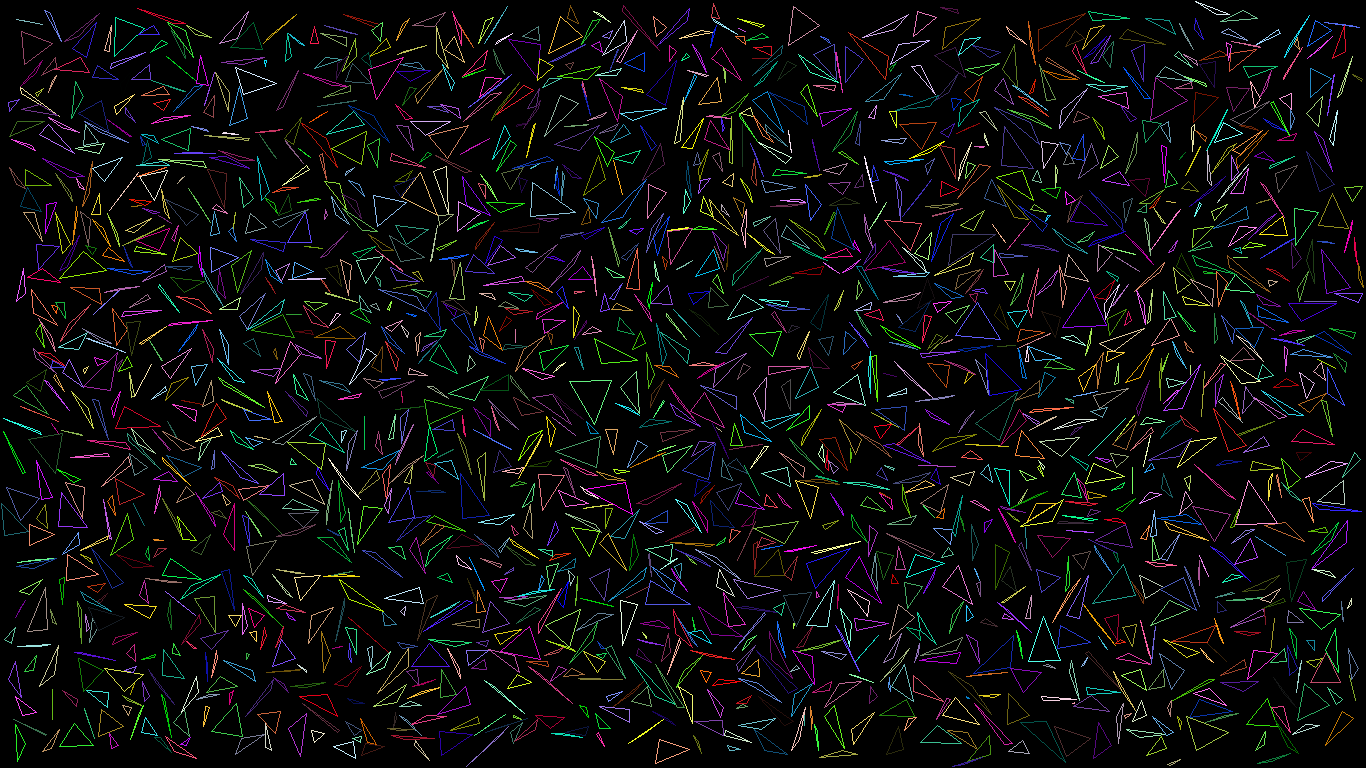
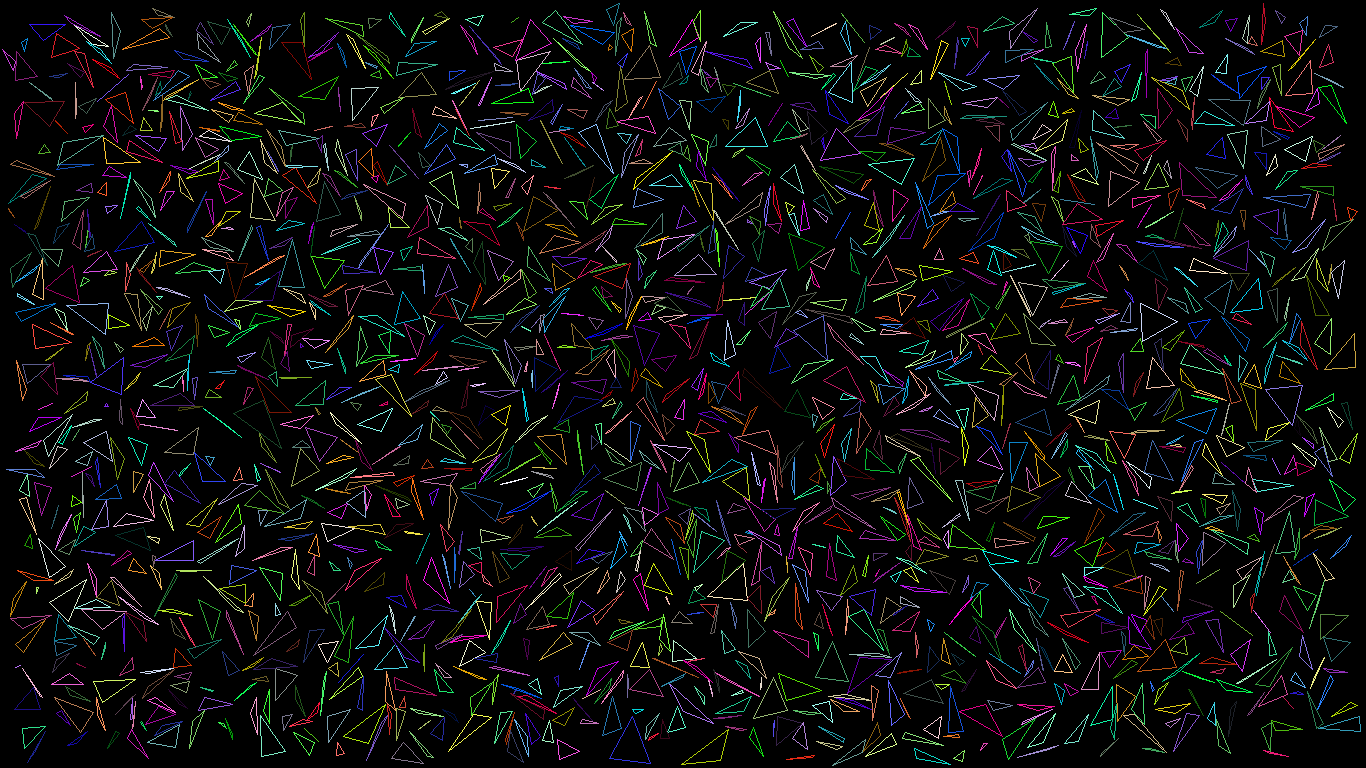
optimized

Changed region(s): [[0.0, 0.0, 1.0, 1.0]]

diff --git a/convex_collide.py b/convex_collide.py
@@ -31,38 +31,42 @@ def collide(pts1,pts2):
         p1 = pts1[i]
         p2 = pts1[i+1]
 
-        theta = 1.57079 - np.arctan2(p2[1]-p1[1],p2[0]-p1[0])
-        c, s = np.cos(theta), np.sin(theta)
-        rot = np.array(((c, -s), (s, c)))
+        #theta = 1.57079 - np.arctan2(p2[1]-p1[1],p2[0]-p1[0])
+        theta = np.arctan2(p2[1]-p1[1],p2[0]-p1[0])
+        s, c = np.cos(theta), np.sin(theta)#c,s
+        rot = np.array([[c,s],[-s,c]])#rot = np.array(((c, -s), (s, c)))
         ###################################
-        rpts1 = np.dot(rot, pts1.transpose()).transpose()
-        rpts2 = np.dot(rot, pts2.transpose()).transpose()
+        rpts1 =np.dot(pts1,rot)# np.dot(rot, pts1.transpose()).transpose()
+        rpts2 =np.dot(pts2,rot)# np.dot(rot, pts2.transpose()).transpose()
         ###################################
-        ma = np.min(rpts1[:,0])
-        Ma = np.max(rpts1[:,0])
-        mb = np.min(rpts2[:,0])
-        Mb = np.max(rpts2[:,0])
-        f = (Mb-ma)*(Ma-mb)
-        if f < 0:
+        #ma = np.min(rpts1[:,0])
+        #Ma = np.max(rpts1[:,0])
+        #mb = np.min(rpts2[:,0])
+        #Mb = np.max(rpts2[:,0])
+        #if (ma-Mb>0) or (mb-Ma>0):
+        if (np.min(rpts1[:,0]) - np.max(rpts2[:,0])>0) or (np.min(rpts2[:,0]) - np.max(rpts1[:,0])>0): 
             return False
 
     for i in range(-1,len(pts2)-1):
         p1 = pts2[i]
         p2 = pts2[i+1]
 
-        theta = 1.57079 - np.arctan2(p2[1]-p1[1],p2[0]-p1[0])
-        c, s = np.cos(theta), np.sin(theta)
-        rot = np.array(((c, -s), (s, c)))
+        #theta = 1.57079 - np.arctan2(p2[1]-p1[1],p2[0]-p1[0])
+        theta = np.arctan2(p2[1]-p1[1],p2[0]-p1[0])
+        s, c = np.cos(theta), np.sin(theta)#c,s
+        rot =np.array([[c,s],[-s,c]])# np.array(((c, -s), (s, c)))
         ###################################
-        rpts1 = np.dot(rot, pts1.transpose()).transpose()
-        rpts2 = np.dot(rot, pts2.transpose()).transpose()
+        rpts1 =np.dot(pts1,rot)# np.dot(rot, pts1.transpose()).transpose()
+        rpts2 =np.dot(pts2,rot)# np.dot(rot, pts2.transpose()).transpose()
         ###################################
-        ma = np.min(rpts1[:,0])
-        Ma = np.max(rpts1[:,0])
-        mb = np.min(rpts2[:,0])
-        Mb = np.max(rpts2[:,0])
-        f = (Mb-ma)*(Ma-mb)
-        if f < 0:
+        #ma = np.min(rpts1[:,0])
+        #Ma = np.max(rpts1[:,0])
+        #mb = np.min(rpts2[:,0])
+        #Mb = np.max(rpts2[:,0])
+        #f = (Mb-ma)*(Ma-mb)
+        #if f < 0:
+        #if (ma-Mb>0) or (mb-Ma>0):
+        if (np.min(rpts1[:,0]) - np.max(rpts2[:,0])>0) or (np.min(rpts2[:,0]) - np.max(rpts1[:,0])>0):
             return False  
     return True              
     

diff --git a/check_cc.py b/check_cc.py
@@ -3,7 +3,7 @@ import cv2
 import random 
 
 from convex_collide import collide
-
+import time
 
 def get_tri(size =50):
     return (np.random.randint(size,size=(3,2))).astype(np.int32)
@@ -20,6 +20,9 @@ image = np.zeros((768,1366,3),dtype=np.uint8)
 
 
 triangles = []
+
+
+t = time.perf_counter()
 
 for i in range(10000):
 
@@ -45,7 +48,7 @@ for i in range(10000):
 
 cv2.imwrite('triangles.png',image)
 
-
+print(time.perf_counter()-t)
 print(len(triangles))
 
 
